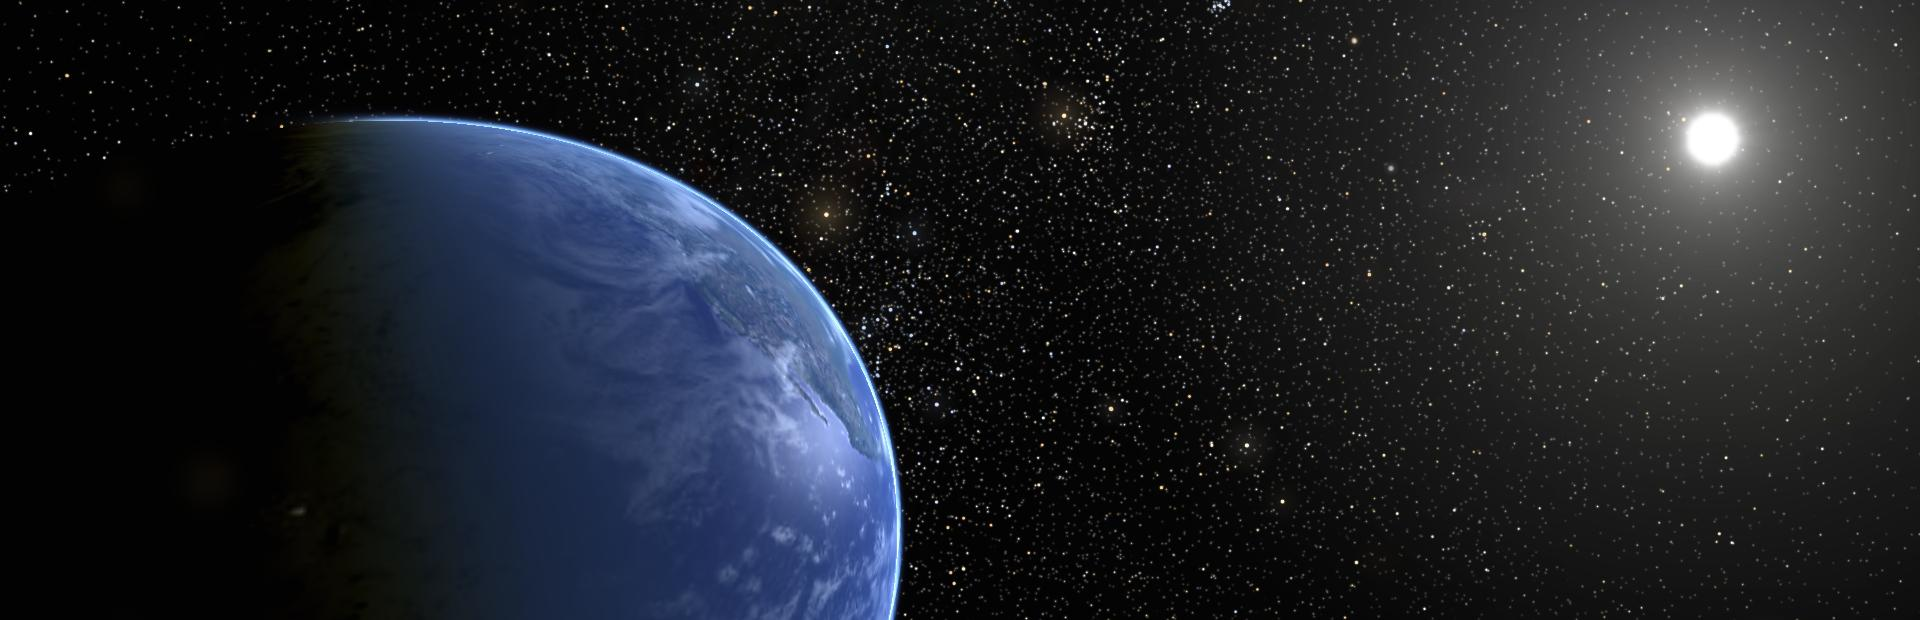
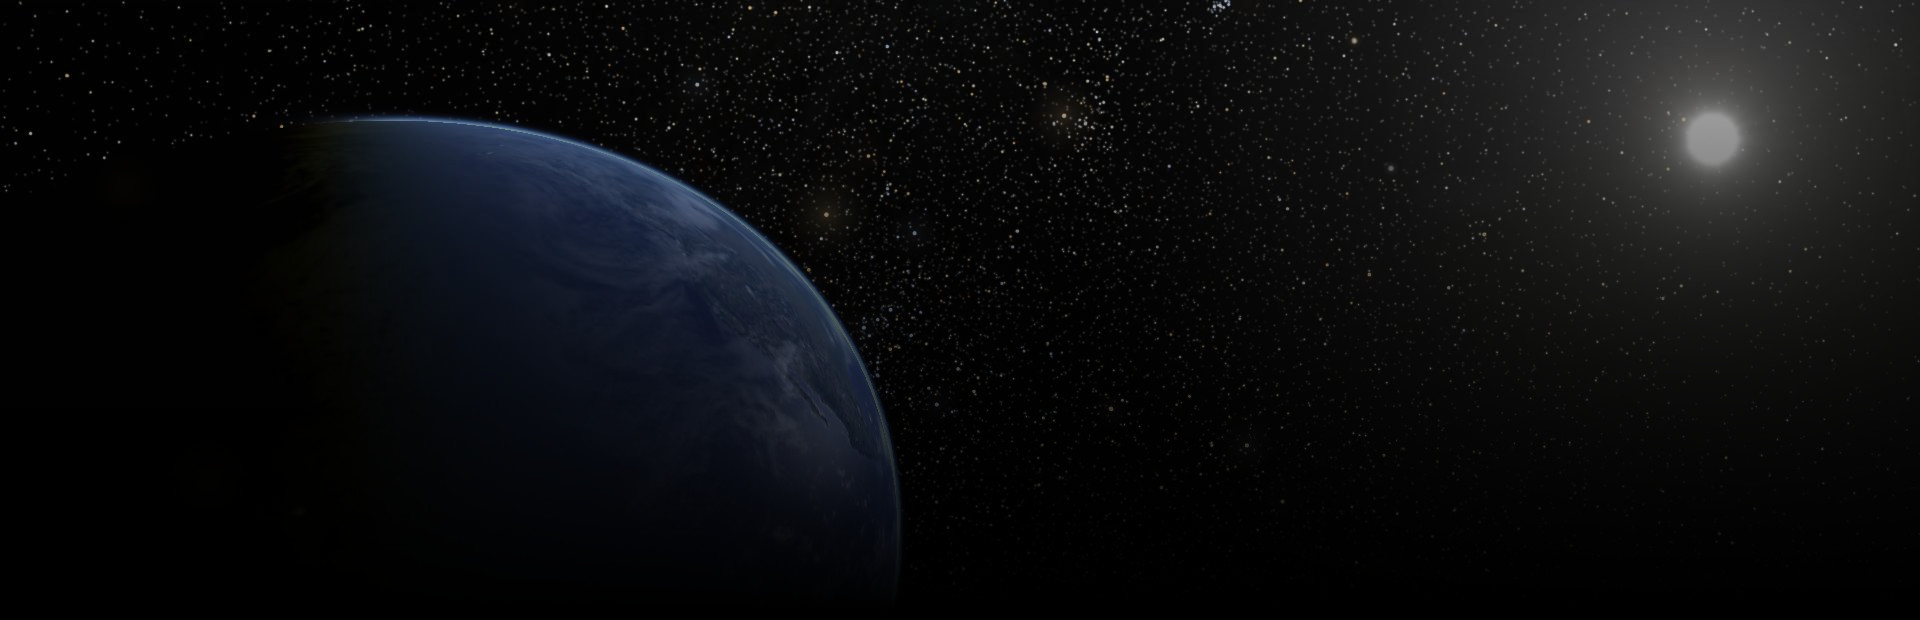
update

diff --git a/stylesheets/stylesheet.css b/stylesheets/stylesheet.css
@@ -61,12 +61,8 @@ a {
   background-color: #000;
   background-size: cover;
   background-repeat: no-repeat;
-  background:
-   linear-gradient(
-     rgba(0, 0, 0, 0.0),
-     rgba(0, 0, 0, 1.0)
-   ),
-   url("../images/header-full.jpg");
+  background-image: url("../images/header-full.jpg");
+
 }
 
 @media screen and (min-width: 64em) {
@@ -109,7 +105,7 @@ font-face { font-family: comfortaa; src: url('../fonts/comfortaa.ttf');}
 .project-tagline {
   margin-bottom: 2rem;
   font-weight: normal;
-  opacity: 0.8;
+  opacity: 1.0;
   text-shadow: 0px 0px 2px #000; }
 
 @media screen and (min-width: 64em) {
